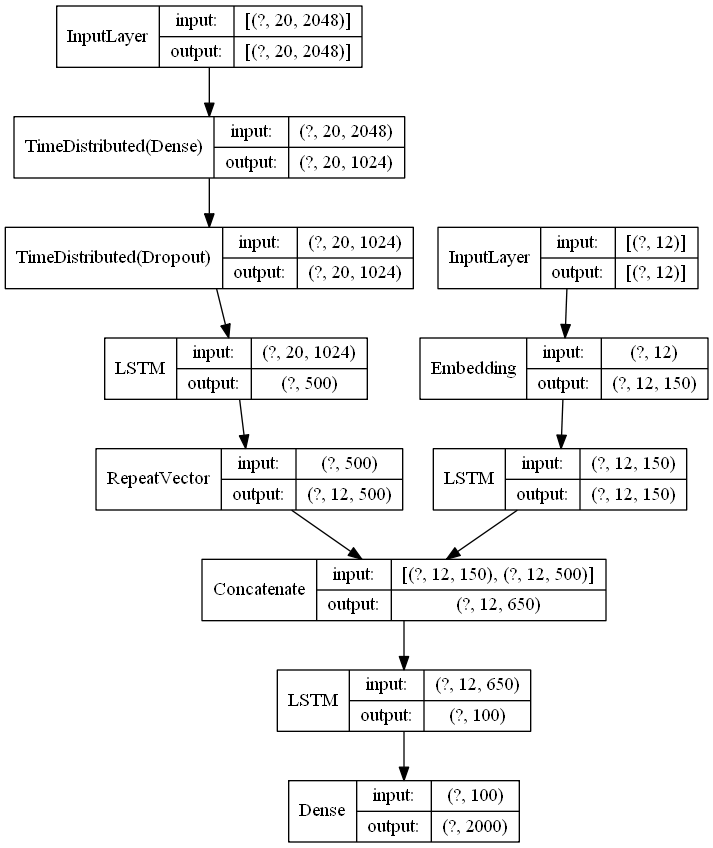
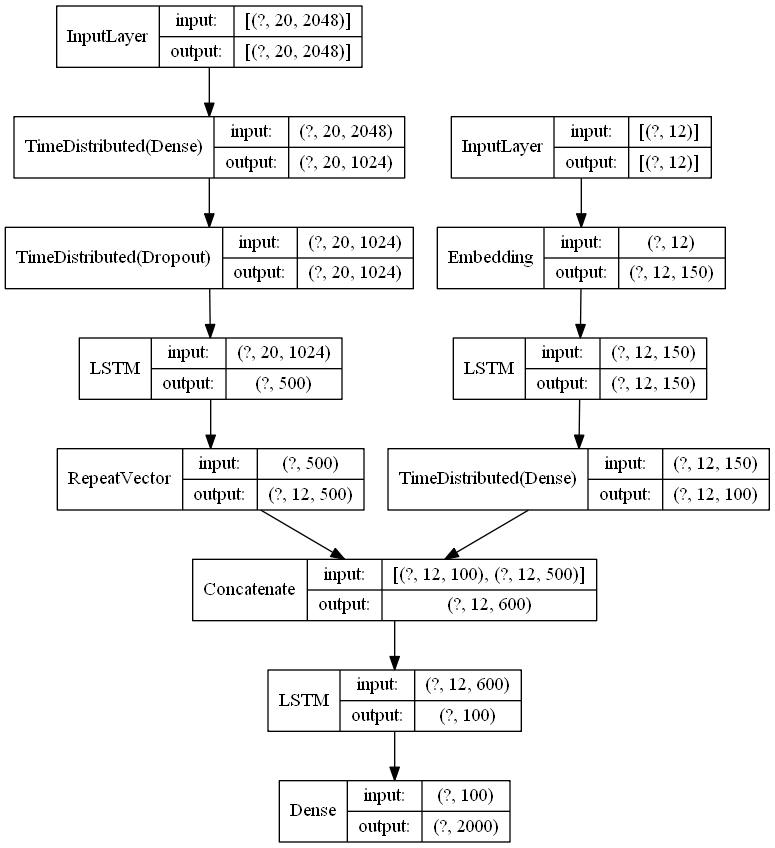
model update

Changed region(s): [[0.0, 0.0, 1.0, 0.6439], [0.2468, 0.6132, 0.864, 1.0], [0.0926, 0.3679, 0.5245, 0.4599]]

diff --git a/src/frameWork.py b/src/frameWork.py
@@ -28,12 +28,6 @@ class FrameWork():
         
         while True : 
             
-            input_1 = np.ones((2,20,2048), dtype = np.float32)
-            input_2 = np.ones((2,12), dtype = np.float32)
-            output = np.ones((2, 2000), dtype = np.float32)
-
-            yield ([input_1, input_2], output)
-
             videos, captions  = self.vHandler.get_random_videos(n = BS)
             #print("videos type:{}  captions type:{}".format(type(videos), type(captions)))
             videos = [self.vmodel.preprocess_frames(video) for video in videos] 
@@ -58,10 +52,10 @@ class FrameWork():
             in_seqs = np.asarray(in_seqs).astype('float32')
             out_seqs = np.asarray(out_seqs).astype('float32') 
 
-            print("{}_{}_{}".format(type(in_vids), type(in_seqs), type(out_seq)))
-            print("{}_{}_{}".format(in_vids.shape, in_seqs.shape, out_seqs.shape))
+            #print("{}_{}_{}".format(type(in_vids), type(in_seqs), type(out_seq)))
+            #print("{}_{}_{}".format(in_vids.shape, in_seqs.shape, out_seqs.shape))
 
-            yield ([in_vids, in_seqs], out_seqs)
+            yield ([in_seqs, in_vids], out_seqs)
             
     def train(self):
         print("training...")

diff --git a/src/VideoHandler.py b/src/VideoHandler.py
@@ -136,8 +136,8 @@ class VideoHandler():
     def get_random_videos(self, n=1):
 
         #ids =[data['video_id'] for data in np.random.choice(self.raw_data['videos'], n) ]
-        ids = ['video0', 'video1', 'video2', 'video3', 'video4', 'video5'][:n]
-        #ids =[data[:-4] for data in np.random.choice(os.listdir(fw.vHandler.vids_dir), n) ]
+        #ids = ['video0', 'video1', 'video2', 'video3', 'video4', 'video5'][:n]
+        ids =[data[:-4] for data in np.random.choice(os.listdir(fw.vHandler.vids_dir), n) ]
 
         videos_metadata = [self.vid2cap[id][0] for id in ids]
         captions = [self.vid2cap[id][1:] for id in ids]

diff --git a/src/vmodel.py b/src/vmodel.py
@@ -297,7 +297,7 @@ class VModel:
 
 
         #_______________concattenated layers_____________________
-        concatted = Concatenate(2)([lstm_1, rep_vec]) 
+        concatted = Concatenate(2)([time_dist_1, rep_vec]) 
         flattened = LSTM(100)(concatted) 
         final = Dense(self.params['VOCAB_SIZE'], activation='softmax')(flattened) 
 
